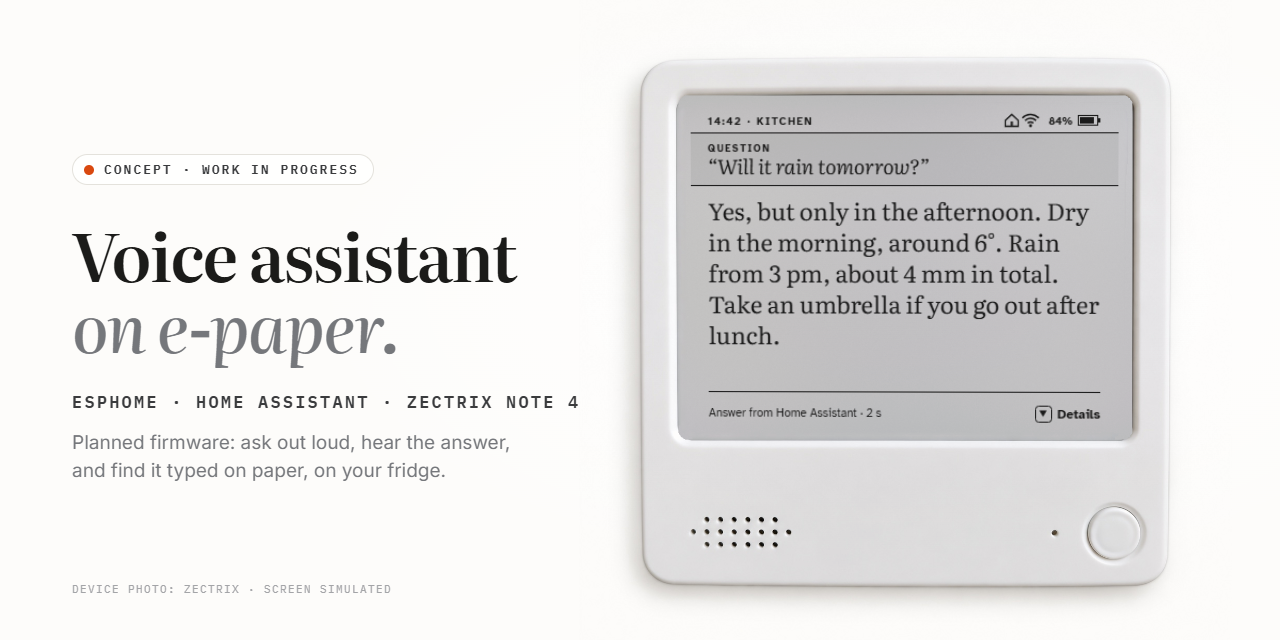
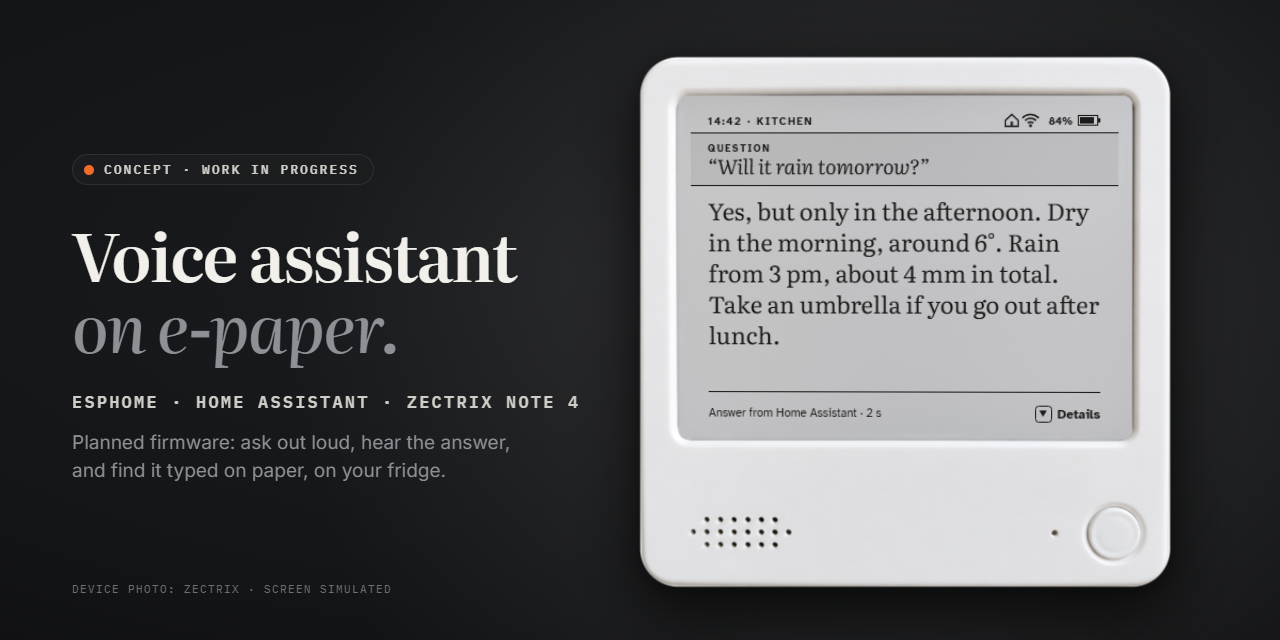
README and media: dark cinematic set, no doorbell
Every README image, loop and the trailer move to a dark studio look that
reads on both GitHub themes; the screens strip shows the listening screen
instead of the doorbell, and how-it-works lists three blueprints.

diff --git a/README.md b/README.md
@@ -52,14 +52,14 @@ editor and paste the user-attachments URL it gives on its own line here. -->
 
 <img src="docs/media/trailer.webp" alt="Concept trailer: the conversation, the page of the day, the Now card and the eight skins" width="100%">
 
-<sub>100 seconds with voice-over and subtitles. A concept: the screens are simulated from the firmware's designs.</sub>
+<sub>The full video runs 94 seconds, with voice-over and subtitles. A concept: the screens are simulated from the firmware's designs.</sub>
 
 </div>
 
 ## How it works
 
 <div align="center">
-<img src="docs/media/how-it-works@2x.png" alt="How it works: your voice goes to the Note 4, Home Assistant Assist answers, the answer is typed on paper; blueprints feed the forecast, events, Now card and doorbell" width="100%">
+<img src="docs/media/how-it-works@2x.png" alt="How it works: your voice goes to the Note 4, Home Assistant Assist answers, the answer is typed on paper; blueprints feed the forecast, events and the Now card" width="100%">
 </div>
 
 The wake word runs on the device. Your question goes to the Home Assistant Assist
@@ -67,7 +67,7 @@ pipeline you already use (speech-to-text, a conversation agent or an LLM,
 text-to-speech). While the reply is spoken, the e-paper types it out word by word
 with fast partial refreshes, then settles with one full refresh, and the answer
 stays on the screen until you need it again. The rest of the time the device
-shows a **page of the day** that Home Assistant keeps current through four
+shows a **page of the day** that Home Assistant keeps current through three
 blueprints.
 
 ## See it in motion
@@ -84,7 +84,7 @@ blueprints.
 <td width="25%" align="center"><img src="docs/media/screens-answer.png" alt="Answer screen" width="100%"><br><sub><b>Answer</b>, stays on paper</sub></td>
 <td width="25%" align="center"><img src="docs/media/screens-forecast.png" alt="Tomorrow's forecast screen" width="100%"><br><sub><b>Tomorrow</b>, hour by hour</sub></td>
 <td width="25%" align="center"><img src="docs/media/screens-timer.png" alt="Timer screen" width="100%"><br><sub><b>Timer</b>, set by voice</sub></td>
-<td width="25%" align="center"><img src="docs/media/screens-doorbell.png" alt="Doorbell screen" width="100%"><br><sub><b>Doorbell</b>, with an AI caption</sub></td>
+<td width="25%" align="center"><img src="docs/media/screens-listening.png" alt="Listening screen" width="100%"><br><sub><b>Listening</b>, a live waveform</sub></td>
 </tr>
 </table>
 
@@ -168,7 +168,7 @@ not fit in flash.
   word is designed to work while the device is talking (barge-in).
 - **An e-paper interface.** Listening (live waveform), thinking (the heard
   question and each step), answering (typed word by word), the page of the day,
-  tomorrow's forecast, a running timer, a doorbell snapshot. Partial refreshes
+  tomorrow's forecast and a running timer. Partial refreshes
   wherever the layout allows, so the clock and the typing do not flash the panel.
 - **The page of the day.** Clock, weather, today's timeline, what's next, a
   running timer and the "Now" card, kept current by Home Assistant.
@@ -192,7 +192,6 @@ changes nothing, so the e-paper only refreshes when the content does.
 | ["Now" card](blueprints/automation/note4_now_card.yaml) | The one thing that matters: an alarm (smoke, gas, CO, leak), then a window open too long, a weather warning, a vacuum in error, a plant with a problem or a recent event, else a one-sentence day brief written by AI Task every morning. | [![Import](https://my.home-assistant.io/badges/blueprint_import.svg)](https://my.home-assistant.io/redirect/blueprint_import/?blueprint_url=https%3A%2F%2Fgithub.com%2FMichalZaniewicz%2Fesphome-zectrix-note4-va%2Fblob%2Fmain%2Fblueprints%2Fautomation%2Fnote4_now_card.yaml) |
 | [Tomorrow's forecast](blueprints/automation/note4_forecast.yaml) | Hourly temperature and rain for 6:00-24:00 tomorrow, high/low, when rain starts, wind, humidity, sunrise and sunset, from any weather entity with hourly and daily forecasts. | [![Import](https://my.home-assistant.io/badges/blueprint_import.svg)](https://my.home-assistant.io/redirect/blueprint_import/?blueprint_url=https%3A%2F%2Fgithub.com%2FMichalZaniewicz%2Fesphome-zectrix-note4-va%2Fblob%2Fmain%2Fblueprints%2Fautomation%2Fnote4_forecast.yaml) |
 | [Today's events](blueprints/automation/note4_calendar.yaml) | The day timeline and the "next" line from one or more calendars. | [![Import](https://my.home-assistant.io/badges/blueprint_import.svg)](https://my.home-assistant.io/redirect/blueprint_import/?blueprint_url=https%3A%2F%2Fgithub.com%2FMichalZaniewicz%2Fesphome-zectrix-note4-va%2Fblob%2Fmain%2Fblueprints%2Fautomation%2Fnote4_calendar.yaml) |
-| [Doorbell](blueprints/automation/note4_doorbell.yaml) | A camera snapshot with an optional AI caption when the doorbell rings. | [![Import](https://my.home-assistant.io/badges/blueprint_import.svg)](https://my.home-assistant.io/redirect/blueprint_import/?blueprint_url=https%3A%2F%2Fgithub.com%2FMichalZaniewicz%2Fesphome-zectrix-note4-va%2Fblob%2Fmain%2Fblueprints%2Fautomation%2Fnote4_doorbell.yaml) |
 
 Every blueprint asks for the **device name**: the ESPHome `name` with dashes
 turned into underscores (`note4-va` becomes `note4_va`), which is how Home
@@ -224,7 +223,7 @@ otherwise ESPHome reuses the cached copy of the remote package.
 - [x] E-paper driver ported from Zectrix's reference (full 1-bit, partial 1-bit, full 16-grey), on its own task
 - [x] Voice side ported from the [Box-3 project](https://github.com/MichalZaniewicz/esphome-esp32-s3-box-3-va): wake word, echo cancellation, timers, "Stop"
 - [x] Eight skins, six screen languages
-- [x] Four Home Assistant blueprints
+- [x] Three Home Assistant blueprints
 - [x] Compiles in CI with every skin and language
 - [ ] The device arrives; full flash backup
 - [ ] Bring-up: power latch on battery, speaker and microphone, echo-cancellation reference, refresh timings ([checklist](docs/HARDWARE.md#bring-up-checklist))
@@ -247,8 +246,7 @@ Home Assistant pushes what the page of the day shows. The actions appear as
 | `set_now` | `level` int (0 brief, 1 to do, 2 alarm), `title`, `body`, `detail`, `icon` | The "Now" card: what matters right now. Level 2 is drawn in negative and brings the page of the day up. Icons: `window`, `wind`, `plant`, `vacuum`, `school`, `flood`, `smoke`, `brief` |
 | `set_forecast` | `day`, `date`, `hi` float, `lo` float, `summary`, `detail`, `temps` float[19], `rain` float[19], `rain_start` float, `wind`, `humidity`, `sunrise`, `sunset` | Tomorrow's forecast. `temps` / `rain` (mm) are hourly for 6:00-24:00; `rain_start` is an hour (15.5 = 15:30), negative for none |
 | `set_events` | `starts` float[], `ends` float[], `titles` string[], `next_time`, `next_title`, `next_in` | Today's timeline (hours as floats) and the "next" line |
-| `show_screen` | `name`: `idle`, `weather`, `timer`, `doorbell` | Switch screen. Ignored during a conversation (except `doorbell`) |
-| `doorbell` | `url`, `caption`, `place` | Fetches a JPEG snapshot (greyscale, 264x300), shows it with the caption, back to the page of the day after a minute |
+| `show_screen` | `name`: `idle`, `weather`, `timer` | Switch screen. Ignored during a conversation |
 
 ```yaml
 action: esphome.note4_va_set_now
@@ -260,13 +258,6 @@ data:
   icon: window
 ```
 
-```yaml
-action: esphome.note4_va_doorbell
-data:
-  url: "http://homeassistant.local:8123{{ state_attr('camera.front_gate', 'entity_picture') }}"
-  caption: "Courier with a parcel"
-  place: "Gate"
-```
 
 Weather now comes from `weather_entity` on its own (its state and its
 `temperature` attribute); today's high/low from the optional
@@ -282,7 +273,7 @@ Weather now comes from `weather_entity` on its own (its state and its
 The panel can draw 16 greys, but only on a full refresh, which takes about 7 s;
 partial refreshes are 1-bit. So screens with something live on them (the clock,
 a countdown, the typing) run 1-bit with a Bayer raster for their tones, and the
-**16 greys** switch lets the static screens (forecast, doorbell) use real greys.
+**16 greys** switch lets the static forecast screen use real greys.
 [docs/HARDWARE.md](docs/HARDWARE.md) has the details and the timings measured by
 other NOTE4 projects.
 
@@ -303,7 +294,7 @@ base/
 components/
   zectrix_epd/           # e-paper display driver (SSD2683, ported from Zectrix)
   note4_ui/              # UI model, refresh policy, skins, string tables
-blueprints/automation/   # the four Home Assistant blueprints
+blueprints/automation/   # the three Home Assistant blueprints
 ci/local.yaml            # validates/compiles the working tree (CI uses this)
 docs/HARDWARE.md         # pin map, power latch, battery, refresh limits, bring-up
 ```
